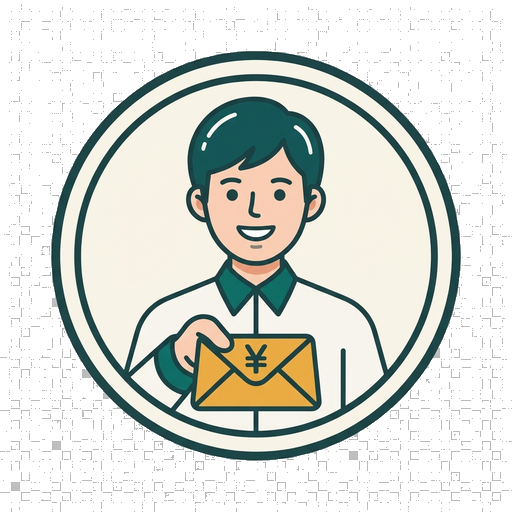
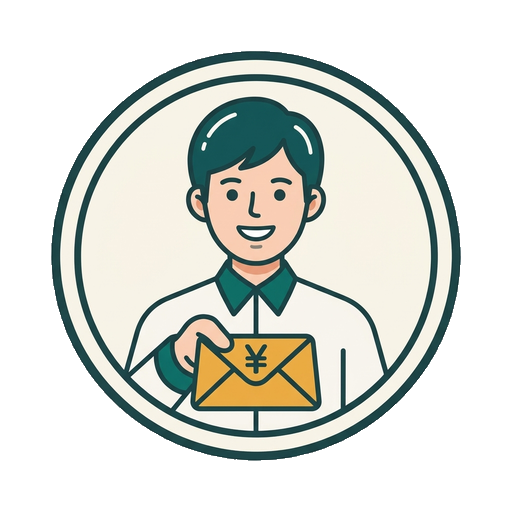
人物イラスト(person-*)を各セクションに配置＋背景を再最適化
・FAQ/査定フォーム/会社情報/実績・比較・引取り 等の装飾を統一イラストトーンへ
  - faq→person-support / form→person-hero / company→person-guide
  - sm-love→person-partner / sm-price→person-appraise / sm-cash・pickup→person-handover
  - 会員CTAのマスコットを person-appraise に差し替え
・person-* の背景チェッカー（濃いグレー164）を再処理し実透過化

Claude-Session: https://claude.ai/code/session_01HRUW3KN2Qyk7Mk95v6wsgw

diff --git a/site/assets/css/buymo.css b/site/assets/css/buymo.css
@@ -1394,3 +1394,15 @@ a.genre-link:hover{background:var(--green);border-color:var(--green);transform:t
 .trust-badges figure{margin:0;text-align:center;width:90px;}
 .trust-badges img{width:68px;height:68px;object-fit:contain;}
 .trust-badges figcaption{font-size:11.5px;color:var(--text-sub);font-weight:700;margin-top:5px;}
+
+/* ============================================================
+   人物イラスト(person-*)を各セクションの装飾に採用（統一イラストトーン）
+   ============================================================ */
+.faq-mascot::after{background-image:url('../img/buymo/person-support.png?v=1');}
+.form-mascot::after{background-image:url('../img/buymo/person-hero.png?v=1');}
+.company-mascot::after{background-image:url('../img/buymo/person-guide.png?v=1');width:110px;height:110px;}
+.section-mascot::after{background-image:url('../img/buymo/person-support.png?v=1');width:120px;height:120px;}
+.section-mascot.sm-love::after{background-image:url('../img/buymo/person-partner.png?v=1');}
+.section-mascot.sm-price::after{background-image:url('../img/buymo/person-appraise.png?v=1');}
+.section-mascot.sm-cash::after{background-image:url('../img/buymo/person-handover.png?v=1');}
+.section-mascot.sm-pickup::after{background-image:url('../img/buymo/person-handover.png?v=1');}

diff --git a/site/index.html b/site/index.html
@@ -764,7 +764,7 @@
         </ul>
       </div>
       <div class="member-cta-actions">
-        <img class="cta-mascot" src="assets/img/buymo/mascot-guide.png" alt="" aria-hidden="true" loading="lazy" />
+        <img class="cta-mascot" src="assets/img/buymo/person-appraise.png?v=1" alt="" aria-hidden="true" loading="lazy" />
         <a href="#form" class="btn btn-primary btn-lg">まずは無料査定へ</a>
         <a href="member.html" class="member-login">査定の状況を確認する ›</a>
       </div>
